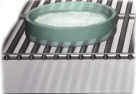
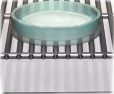
make room in incubator to hold microtitter plates

diff --git a/app/js/model/Incubator.ts b/app/js/model/Incubator.ts
@@ -4,6 +4,7 @@ import experimentController = require('controller/Experiment');
 
 import TubeRackModel = require('model/TubeRack');
 import PetriSpaceModel = require('model/PetriSpace');
+import MicroSpaceModel = require('model/MicroSpace');
 import GrowerType = require('model/type/Grower');
 import LocationType = require('model/type/Location');
 import ActivationType = require('model/type/Activation');
@@ -17,6 +18,7 @@ class Incubator {
     public hourResolution: KnockoutObservable<number>;
     public growerType: KnockoutObservable<GrowerType>;
     public tableSpacePetri: PetriSpaceModel;
+    public tableSpaceMicro: MicroSpaceModel;
     public tubeRack: TubeRackModel;
 
     public temperatureText: KnockoutComputed<string>;
@@ -30,10 +32,12 @@ class Incubator {
         this.hourResolution = ko.observable(10); // This is used in the growth.
         this.growerType = ko.observable(GrowerType.INCUBATOR);
 
-        this.tableSpacePetri = new PetriSpaceModel(6);
+        this.tableSpacePetri = new PetriSpaceModel(4);
         this.tableSpacePetri.location(LocationType.INCUBATOR);
         this.tubeRack = new TubeRackModel();
         this.tubeRack.location(LocationType.INCUBATOR);
+        this.tableSpaceMicro = new MicroSpaceModel(1);
+        this.tableSpaceMicro.location(LocationType.INCUBATOR);
 
         this.temperatureText = ko.pureComputed(() => {
             return '' + this.temperature().toFixed(1) + ' °C';
@@ -78,6 +82,7 @@ class Incubator {
 
         for (var i = 0; i < this.hourResolution(); i++) {
             this.tableSpacePetri.growContentsOnce(deltaTime, this.growerType(), 0, this.temperature());
+            this.tableSpaceMicro.growContentsOnce(deltaTime, this.growerType(), 0, this.temperature());
             this.tubeRack.growContentsOnce(deltaTime, this.growerType(), 0, this.temperature());
         }
 
@@ -86,6 +91,7 @@ class Incubator {
 
     reset() {
         this.tableSpacePetri.removeAll();
+        this.tableSpaceMicro.removeAll();
         this.tubeRack.removeAll();
 
         this.temperature(37.0);

diff --git a/app/css/view/_incubator.scss b/app/css/view/_incubator.scss
@@ -132,7 +132,7 @@
         position: absolute;
         top: 386px;
         left: 300px;
-        width: 400px;
+        width: 250px;
         height: 120px;
 
         ul {
@@ -149,29 +149,33 @@
                 left: 138px;
             }
             .slot2 {
-                width: 152px;
-                height: 44px;
-                top: 0;
-                left: 252px;
-            }
-            .slot3 {
                 width: 136px;
                 height: 94px;
                 top: 44px;
                 left: 2px;
             }
-            .slot4 {
+            .slot3 {
                 width: 114px;
                 height: 94px;
                 top: 44px;
                 left: 138px;
             }
-            .slot5 {
-                width: 152px;
-                height: 94px;
-                top: 44px;
-                left: 252px;
-            }
+        }
+    }
+
+    .micro {
+        position: absolute;
+        margin-top: 30px;
+        left: 555px;
+        top: 386px;
+        width: 158px;
+        height: 100px;
+
+        .slot0 {
+            position: absolute;
+            height: 69px;
+            width: 158px;
+
         }
     }
 }

diff --git a/app/js/controller/view/Incubator.ts b/app/js/controller/view/Incubator.ts
@@ -11,6 +11,7 @@ class IncubatorController extends BaseViewController {
 
     public tubeRackController: CompositeContainerController;
     public petriSpaceController: CompositeContainerController;
+    public tableSpaceMicroController: CompositeContainerController;
 
     constructor() {
         super('incubator');
@@ -24,6 +25,10 @@ class IncubatorController extends BaseViewController {
         this.petriSpaceController = new CompositeContainerController(this.incubator.tableSpacePetri);
         this.petriSpaceController.imageGetter = this.ImageHelper.incubatorPetriImage;
         this.petriSpaceController.addDropGuard(this.smallPoxGuard);
+
+        this.tableSpaceMicroController = new CompositeContainerController(this.incubator.tableSpaceMicro);
+        this.tableSpaceMicroController.addDropGuard(this.smallPoxGuard);
+        //this.tableSpaceMicroController.addDropGuard(this.smallPoxGuard);
 
         ko.rebind(this);
     }

diff --git a/app/js/model/UvRoom.ts b/app/js/model/UvRoom.ts
@@ -21,7 +21,7 @@ class UvRoom {
         this.tableSpacePetri = new PetriSpaceModel(3, ContainerType.UV_PETRI_SPACE);
         this.tableSpacePetri.location(LocationType.UVROOM);
 
-        this.tableSpaceMicro = new MicroSpaceModel(ContainerType.UV_MICRO_SPACE);
+        this.tableSpaceMicro = new MicroSpaceModel(3, ContainerType.UV_MICRO_SPACE);
         this.tableSpaceMicro.location(LocationType.UVROOM);
 
         this.tubeRack = new TubeRackModel(ContainerType.UV_TUBE_RACK);

diff --git a/app/js/model/MicroSpace.ts b/app/js/model/MicroSpace.ts
@@ -5,8 +5,8 @@ import CompositeContainerModel = require('model/CompositeContainer');
 
 class MicroSpace extends CompositeContainerModel {
 
-    constructor(type = ContainerType.MICRO_SPACE) {
-        super(3, ContainerType.MICROTITER, type);
+    constructor(capacity = 3, type = ContainerType.MICRO_SPACE) {
+        super(capacity, ContainerType.MICROTITER, type);
 
         ko.rebind(this);
     }
